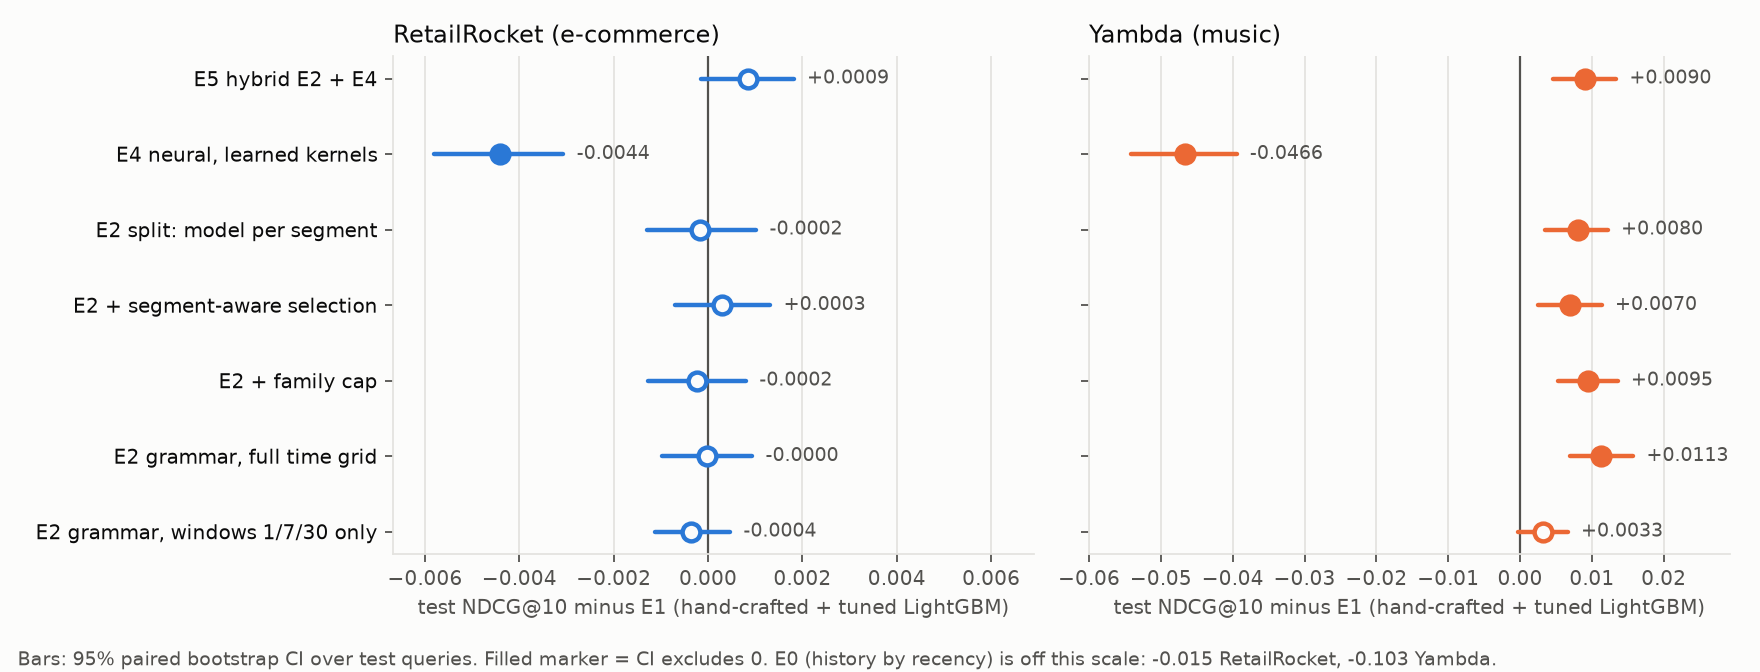
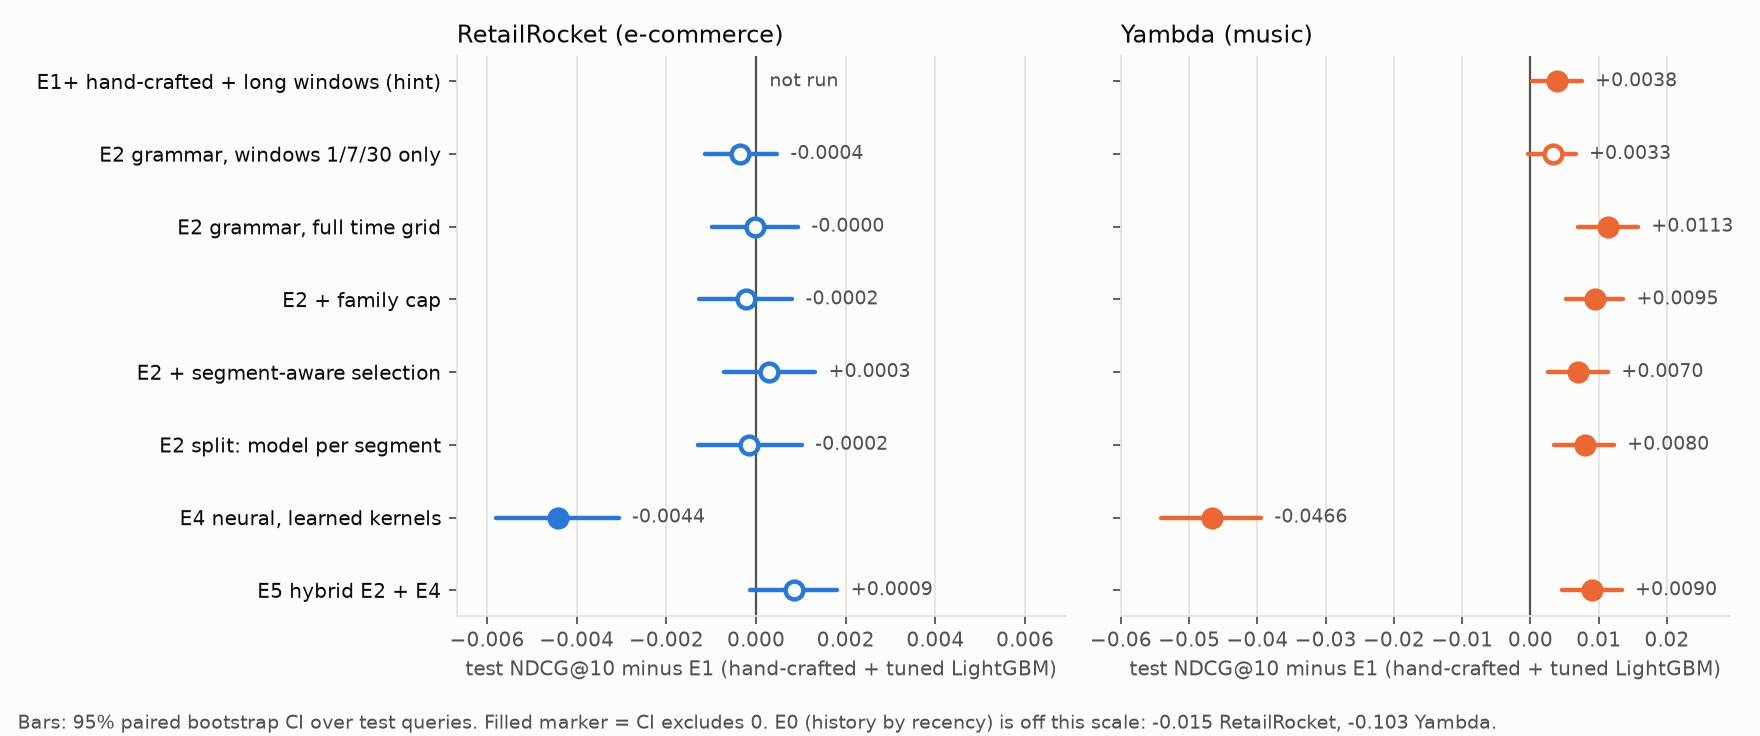
Report fixes: primary = pre-specified E2-full, E2-split marked post-hoc; E1+ strawman check; proposal section
- E2-split was designed after seeing Yambda test slices -> post-hoc on both datasets;
  the 'best val' rule is dropped (its pool contained a post-hoc variant), primary is
  E2-full, the only variant fully specified before any result.
- E1+ (hand set + long windows, built with hindsight): Yambda 0.2810; E2-full still
  +0.0075 [+0.0038, +0.0111] better.
- New section 7: production use, ideas 1-3 of the task, LLM agent not tested, search cost.
- Fixed row misalignment in fig_delta when panels have different method sets.

diff --git a/experiments/make_figures.py b/experiments/make_figures.py
@@ -31,9 +31,9 @@ SURF, INK, INK2, GRID = "#fcfcfb", "#0b0b0b", "#52514e", "#e4e3df"
 HUE = {"retailrocket": "#2a78d6", "yambda": "#eb6834"}
 TITLE = {"retailrocket": "RetailRocket (e-commerce)", "yambda": "Yambda (music)"}
 OUT = ROOT / "reports" / "figures"
-ORDER = ["E2_coarse", "E2_full", "E2_full_div", "E2_full_seg", "E2_split", "E4_neural",
+ORDER = ["E1plus_hand_lgb", "E2_coarse", "E2_full", "E2_full_div", "E2_full_seg", "E2_split", "E4_neural",
          "E5_hybrid"]
-LABEL = {"E0_history_recency": "E0 history by recency", "E2_coarse": "E2 grammar, windows 1/7/30 only",
+LABEL = {"E1plus_hand_lgb": "E1+ hand-crafted + long windows (hint)", "E0_history_recency": "E0 history by recency", "E2_coarse": "E2 grammar, windows 1/7/30 only",
          "E2_full": "E2 grammar, full time grid", "E2_full_div": "E2 + family cap",
          "E2_full_seg": "E2 + segment-aware selection", "E2_split": "E2 split: model per segment",
          "E4_neural": "E4 neural, learned kernels", "E5_hybrid": "E5 hybrid E2 + E4"}
@@ -51,28 +51,36 @@ def style(ax):
 
 
 def fig_delta():
-    fig, axes = plt.subplots(1, 2, figsize=(11, 4.2), facecolor=SURF, sharey=True)
+    fig, axes = plt.subplots(1, 2, figsize=(11, 4.6), facecolor=SURF, sharey=True)
+    base = {ds: ROOT / "experiments" / "results" / ds for ds in ("retailrocket", "yambda")}
+    shown = [m for m in ORDER if any((base[ds] / f"pq_{m}.parquet").exists() for ds in base)]
+    ypos = {m: i for i, m in enumerate(shown)}      # one fixed row per method in BOTH panels
     for ax, ds in zip(axes, ("retailrocket", "yambda")):
-        d = ROOT / "experiments" / "results" / ds
+        d = base[ds]
         ref = pl.read_parquet(d / "pq_E1_hand_lgb.parquet")
         rows = [(m, *paired_bootstrap(ref, pl.read_parquet(d / f"pq_{m}.parquet")))
-                for m in ORDER if (d / f"pq_{m}.parquet").exists()]
+                for m in shown if (d / f"pq_{m}.parquet").exists()]
         style(ax)
         ax.axvline(0, color=INK2, linewidth=1)
-        for y, (m, mean, lo, hi) in enumerate(rows):
+        for m, mean, lo, hi in rows:
+            y = ypos[m]
             sig = lo > 0 or hi < 0
             ax.plot([lo, hi], [y, y], color=HUE[ds], linewidth=2, solid_capstyle="round")
             ax.plot(mean, y, "o", markersize=8, color=HUE[ds] if sig else SURF, markeredgecolor=HUE[ds],
                     markeredgewidth=2)
             ax.annotate(f"{mean:+.4f}", (hi, y), xytext=(6, 0), textcoords="offset points", va="center",
                         fontsize=8.5, color=INK2)
-        ax.set_yticks(range(len(rows)))
-        ax.set_yticklabels([LABEL[r[0]] for r in rows], color=INK, fontsize=9)
-        ax.invert_yaxis()
+        for m in shown:
+            if m not in {r[0] for r in rows}:
+                ax.annotate("not run", (0, ypos[m]), xytext=(6, 0), textcoords="offset points", va="center",
+                            fontsize=8.5, color=INK2)
         ax.set_title(TITLE[ds], color=INK, fontsize=11, loc="left")
         ax.set_xlabel("test NDCG@10 minus E1 (hand-crafted + tuned LightGBM)", color=INK2, fontsize=9)
         lo_all = min(r[2] for r in rows)
         ax.set_xlim(max(lo_all * 1.15, -0.06), max(r[3] for r in rows) * 1.6 + 0.004)
+    axes[0].set_yticks(range(len(shown)))
+    axes[0].set_yticklabels([LABEL[m] for m in shown], color=INK, fontsize=9)
+    axes[0].invert_yaxis()
     fig.text(0.01, 0.01, "Bars: 95% paired bootstrap CI over test queries. Filled marker = CI excludes 0. "
              "E0 (history by recency) is off this scale: -0.015 RetailRocket, -0.103 Yambda.",
              color=INK2, fontsize=8.5)

diff --git a/experiments/collect_results.py b/experiments/collect_results.py
@@ -21,7 +21,7 @@ def main(name: str) -> None:
     rows: dict[str, dict] = {}
     base = json.loads((d / "baselines.json").read_text())
     rows.update(base["results"])
-    for f in sorted(d.glob("E2_*.json")):
+    for f in sorted(d.glob("E1plus_*.json")) + sorted(d.glob("E2_*.json")):
         rows[f.stem] = json.loads(f.read_text())
     if (d / "neural.json").exists():
         rows.update(json.loads((d / "neural.json").read_text()))

diff --git a/README.md b/README.md
@@ -20,12 +20,15 @@ decay has a continuous half-life, so "7 days or 10 days?" stops being a human de
 | E0 user history by recency | 0.3134 | 0.1742 |
 | **E1 38/36 hand-crafted features + Optuna-tuned LightGBM** | **0.3281** | **0.2772** |
 | E2 grammar, windows 1/7/30 only | 0.3277 (−0.0004 [−0.0011, +0.0005]) | 0.2805 (+0.0033 [−0.0003, +0.0066]) |
-| **E2 grammar, full time grid** | 0.3281 (−0.0000 [−0.0010, +0.0009]) | **0.2885 (+0.0113 [+0.0069, +0.0157])** |
-| E2-split (primary by pre-declared "best val" rule) | 0.3279 (−0.0002 [−0.0013, +0.0010]) | 0.2853 (+0.0080 [+0.0035, +0.0122]) |
+| E1+ hand-crafted + long windows, built *after* seeing E2's choice | — | 0.2810 (+0.0038 [+0.0002, +0.0075]) |
+| **E2 grammar, full time grid (primary, fixed before any result)** | 0.3281 (−0.0000 [−0.0010, +0.0009]) | **0.2885 (+0.0113 [+0.0069, +0.0157])**; vs E1+: +0.0075 [+0.0038, +0.0111] |
+| E2-split (exploratory, post-hoc) | 0.3279 (−0.0002 [−0.0013, +0.0010]) | 0.2853 (+0.0080 [+0.0035, +0.0122]) |
 | E4 neural ranker with learned time kernels | 0.3237 (−0.0044 [−0.0058, −0.0031]) | 0.2306 (−0.0466 [−0.0541, −0.0395]) |
 
 * Yambda: every full-grid variant of the automatic pipeline beats the tuned hand-crafted booster;
   most of the gain is the automatic choice of time scale (full grid vs 1/7/30: +0.0081 [+0.0041, +0.0122]).
+  A hand-crafted set strengthened with long windows (E1+, a baseline deliberately helped by hindsight)
+  closes about a third of the gap; the primary method still beats it.
 * RetailRocket: a tie, bounded by the candidate generator (repeats are solved by recency, new items have
   10% candidate recall).
 * Weak spot found on both datasets: selection by overall NDCG favours repeat-item features and slightly

diff --git a/experiments/results/yambda/slices_table.md b/experiments/results/yambda/slices_table.md
@@ -3,6 +3,7 @@
 | new_items | E0_history_recency | 1,635 | 0.0132 | 0.0182 | -0.0170 [-0.0228, -0.0109] |
 | new_items | E0_popularity_7d | 1,635 | 0.0141 | 0.0216 | -0.0161 [-0.0217, -0.0104] |
 | new_items | E1_hand_lgb | 1,635 | 0.0303 | 0.0374 | — |
+| new_items | E1plus_hand_lgb | 1,635 | 0.0304 | 0.0403 | +0.0001 [-0.0018, +0.0021] |
 | new_items | E2_coarse | 1,635 | 0.0280 | 0.0393 | -0.0023 [-0.0051, +0.0005] |
 | new_items | E2_full | 1,635 | 0.0267 | 0.0355 | -0.0035 [-0.0067, -0.0004] |
 | new_items | E2_full_div | 1,635 | 0.0270 | 0.0354 | -0.0033 [-0.0064, -0.0003] |
@@ -14,6 +15,7 @@
 | repeat | E0_history_recency | 2,179 | 0.2490 | 0.3097 | -0.1401 [-0.1550, -0.1252] |
 | repeat | E0_popularity_7d | 2,179 | 0.1521 | 0.2052 | -0.2369 [-0.2507, -0.2221] |
 | repeat | E1_hand_lgb | 2,179 | 0.3890 | 0.4510 | — |
+| repeat | E1plus_hand_lgb | 2,179 | 0.3949 | 0.4580 | +0.0059 [+0.0007, +0.0110] |
 | repeat | E2_coarse | 2,179 | 0.3947 | 0.4563 | +0.0057 [+0.0008, +0.0104] |
 | repeat | E2_full | 2,179 | 0.4061 | 0.4707 | +0.0171 [+0.0112, +0.0228] |
 | repeat | E2_full_div | 2,179 | 0.4046 | 0.4702 | +0.0156 [+0.0099, +0.0211] |

diff --git a/experiments/results/yambda/results_table.md b/experiments/results/yambda/results_table.md
@@ -3,6 +3,7 @@
 | E0_popularity_7d | — | — | 0.0296 | -0.2476 [-0.2593, -0.2352] | -0.1446 [-0.1557, -0.1339] | 0.0390 | 0.0286 | 0.567 |
 | E0_history_recency | — | — | 0.1742 | -0.1030 [-0.1143, -0.0920] | +0.0000 [+0.0000, +0.0000] | 0.2079 | 0.1359 | 0.743 |
 | E1_hand_lgb | 36 | 0.2917 | 0.2772 | +0.0000 [+0.0000, +0.0000] | +0.1030 [+0.0920, +0.1143] | 0.3117 | 0.0767 | 0.873 |
+| E1plus_hand_lgb | 60 | 0.2951 | 0.2810 | +0.0038 [+0.0002, +0.0075] | +0.1068 [+0.0960, +0.1179] | 0.3170 | 0.0764 | 0.880 |
 | E2_coarse | 67 | 0.2947 | 0.2805 | +0.0033 [-0.0003, +0.0066] | +0.1062 [+0.0952, +0.1178] | 0.3149 | 0.0721 | 0.878 |
 | E2_full | 68 | 0.2983 | 0.2885 | +0.0113 [+0.0069, +0.0157] | +0.1143 [+0.1036, +0.1252] | 0.3243 | 0.0745 | 0.881 |
 | E2_full_div | 67 | 0.2987 | 0.2867 | +0.0095 [+0.0052, +0.0136] | +0.1125 [+0.1018, +0.1235] | 0.3236 | 0.0728 | 0.881 |
